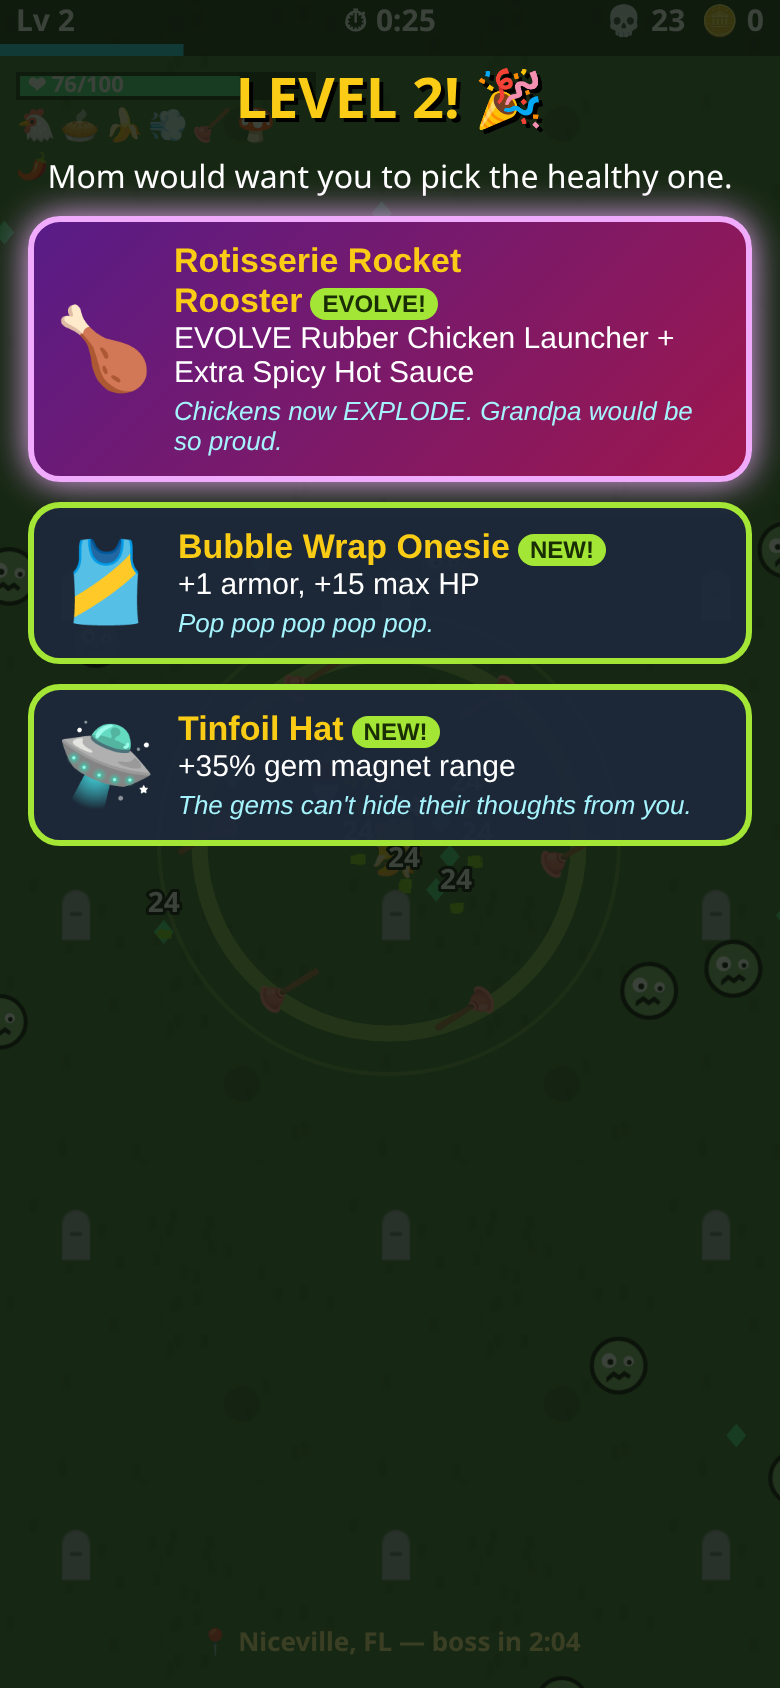
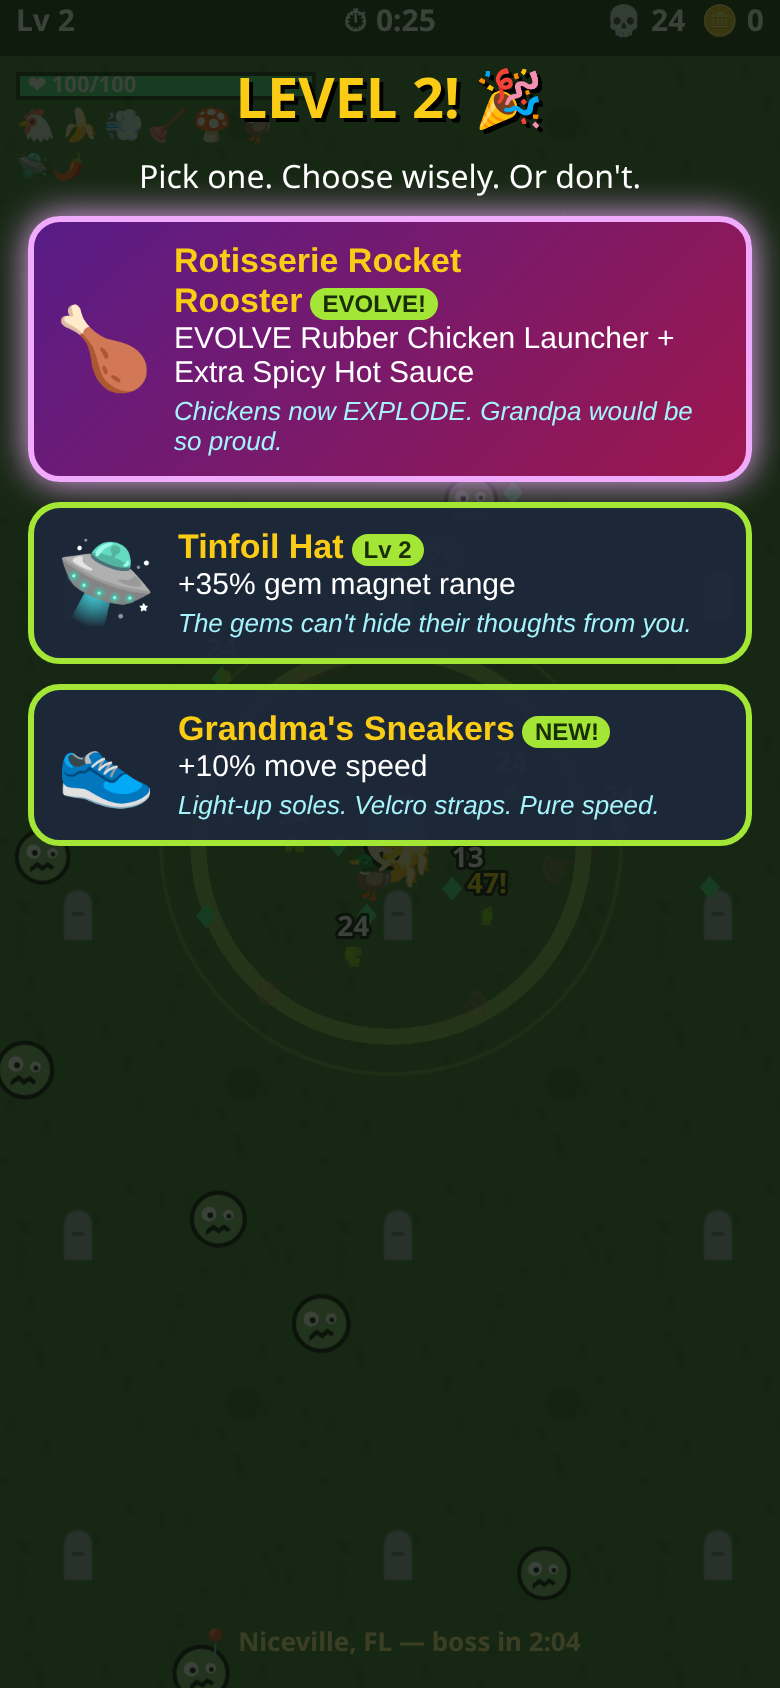
Faster rubber chicken launcher; SW v4

diff --git a/index.html b/index.html
@@ -52,8 +52,8 @@ table{border-collapse:collapse;font-size:14px;background:#0007;border-radius:12p
 <div id="ini" class="hidden"><p><b>🎉 Top 10! Pick your initials</b></p><div id="iniCols"></div><br><button class="btn" id="iniSave">✔ Save</button></div>
 <div id="overBoard"></div><div id="overBtns" style="display:flex;flex-direction:column;gap:10px;align-items:center"><button class="btn" id="againB">🔁 Again</button><button class="btn sm alt" id="homeB">🏠 Home</button></div></div>
 <div class="screen hidden" id="board"><h2 id="boardTitle">🏆 Top 10</h2><div id="boardList"></div><button class="btn sm" id="boardBack">⬅ Back</button></div>
-<script src="game.js?v=3"></script>
-<script>if('serviceWorker'in navigator&&location.protocol!=='file:')navigator.serviceWorker.register('sw.js?v=3');
+<script src="game.js?v=4"></script>
+<script>if('serviceWorker'in navigator&&location.protocol!=='file:')navigator.serviceWorker.register('sw.js?v=4');
 let deferredPrompt=null;const ib=document.getElementById("installBtn"),hp=document.getElementById("installHelp");
 const standalone=()=>matchMedia("(display-mode: standalone)").matches||matchMedia("(display-mode: fullscreen)").matches||navigator.standalone;
 if(standalone())ib.classList.add("hidden");

diff --git a/game.js b/game.js
@@ -184,7 +184,7 @@ function bullet(o){const b=obtain("b");b.hits=b.hits||[];b.hits.length=0;Object.
 // ===== Weapons =====
 function wUpdate(dt){const p=G.p,S=stat();for(const k of G.order){const w=G.w[k],L=w.lv,E=w.evo;w.cd-=dt;w.a+=dt;
  switch(k){
- case"chicken":if(w.cd<=0){w.cd=(E?.55:1.05-L*.07)*S.cd;const n=1+Math.floor(L/2)+(E?1:0);for(let i=0;i<n;i++){const t=nearest(p.x,p.y,500);const a=t?Math.atan2(t.y-p.y,t.x-p.x)+(i-(n-1)/2)*.18:Math.random()*7;
+ case"chicken":if(w.cd<=0){w.cd=(E?.42:.76-L*.05)*S.cd;const n=1+Math.floor(L/2)+(E?1:0);for(let i=0;i<n;i++){const t=nearest(p.x,p.y,500);const a=t?Math.atan2(t.y-p.y,t.x-p.x)+(i-(n-1)/2)*.18:Math.random()*7;
    bullet({k:"chicken",x:p.x,y:p.y,vx:Math.cos(a)*400,vy:Math.sin(a)*400,r:9,dmg:9+L*4+(E?10:0),pierce:1+Math.floor(L/3),spr:E?"🍗":"🐔",ex:E?55*S.area:0})}sfx("squeak")}break;
  case"banana":if(w.cd<=0){w.cd=(E?1.1:1.8-L*.1)*S.cd;const n=(E?6:1+Math.floor((L-1)/2));const base=Math.atan2(p.dy,p.dx);for(let i=0;i<n;i++){const a=base+i*Math.PI*2/n*(E?1:.35)-(E?0:(n-1)*.17);
    bullet({k:"banana",x:p.x,y:p.y,vx:Math.cos(a)*360,vy:Math.sin(a)*360,ax:-Math.cos(a)*360,ay:-Math.sin(a)*360,r:12*S.area,dmg:8+L*3+(E?12:0),pierce:999,l:2,spr:E?"🍨":"🍌",spin:1})}sfx("boing")}break;

diff --git a/sw.js b/sw.js
@@ -1,5 +1,5 @@
-const VER="3",CACHE="remysurv-v"+VER;
-const SHELL=["./","index.html","game.js?v=3","manifest.webmanifest","icons/icon-192.png","icons/icon-512.png","icons/maskable-512.png"];
+const VER="4",CACHE="remysurv-v"+VER;
+const SHELL=["./","index.html","game.js?v=4","manifest.webmanifest","icons/icon-192.png","icons/icon-512.png","icons/maskable-512.png"];
 self.addEventListener("install",e=>{e.waitUntil(caches.open(CACHE).then(c=>c.addAll(SHELL.map(u=>new Request(u,{cache:"reload"})))).then(()=>self.skipWaiting()))});
 self.addEventListener("activate",e=>{e.waitUntil(caches.keys().then(ks=>Promise.all(ks.filter(k=>k.startsWith("remysurv-")&&k!==CACHE).map(k=>caches.delete(k)))).then(()=>self.clients.claim()))});
 self.addEventListener("fetch",e=>{const r=e.request;if(r.method!=="GET"||new URL(r.url).origin!==location.origin)return;
